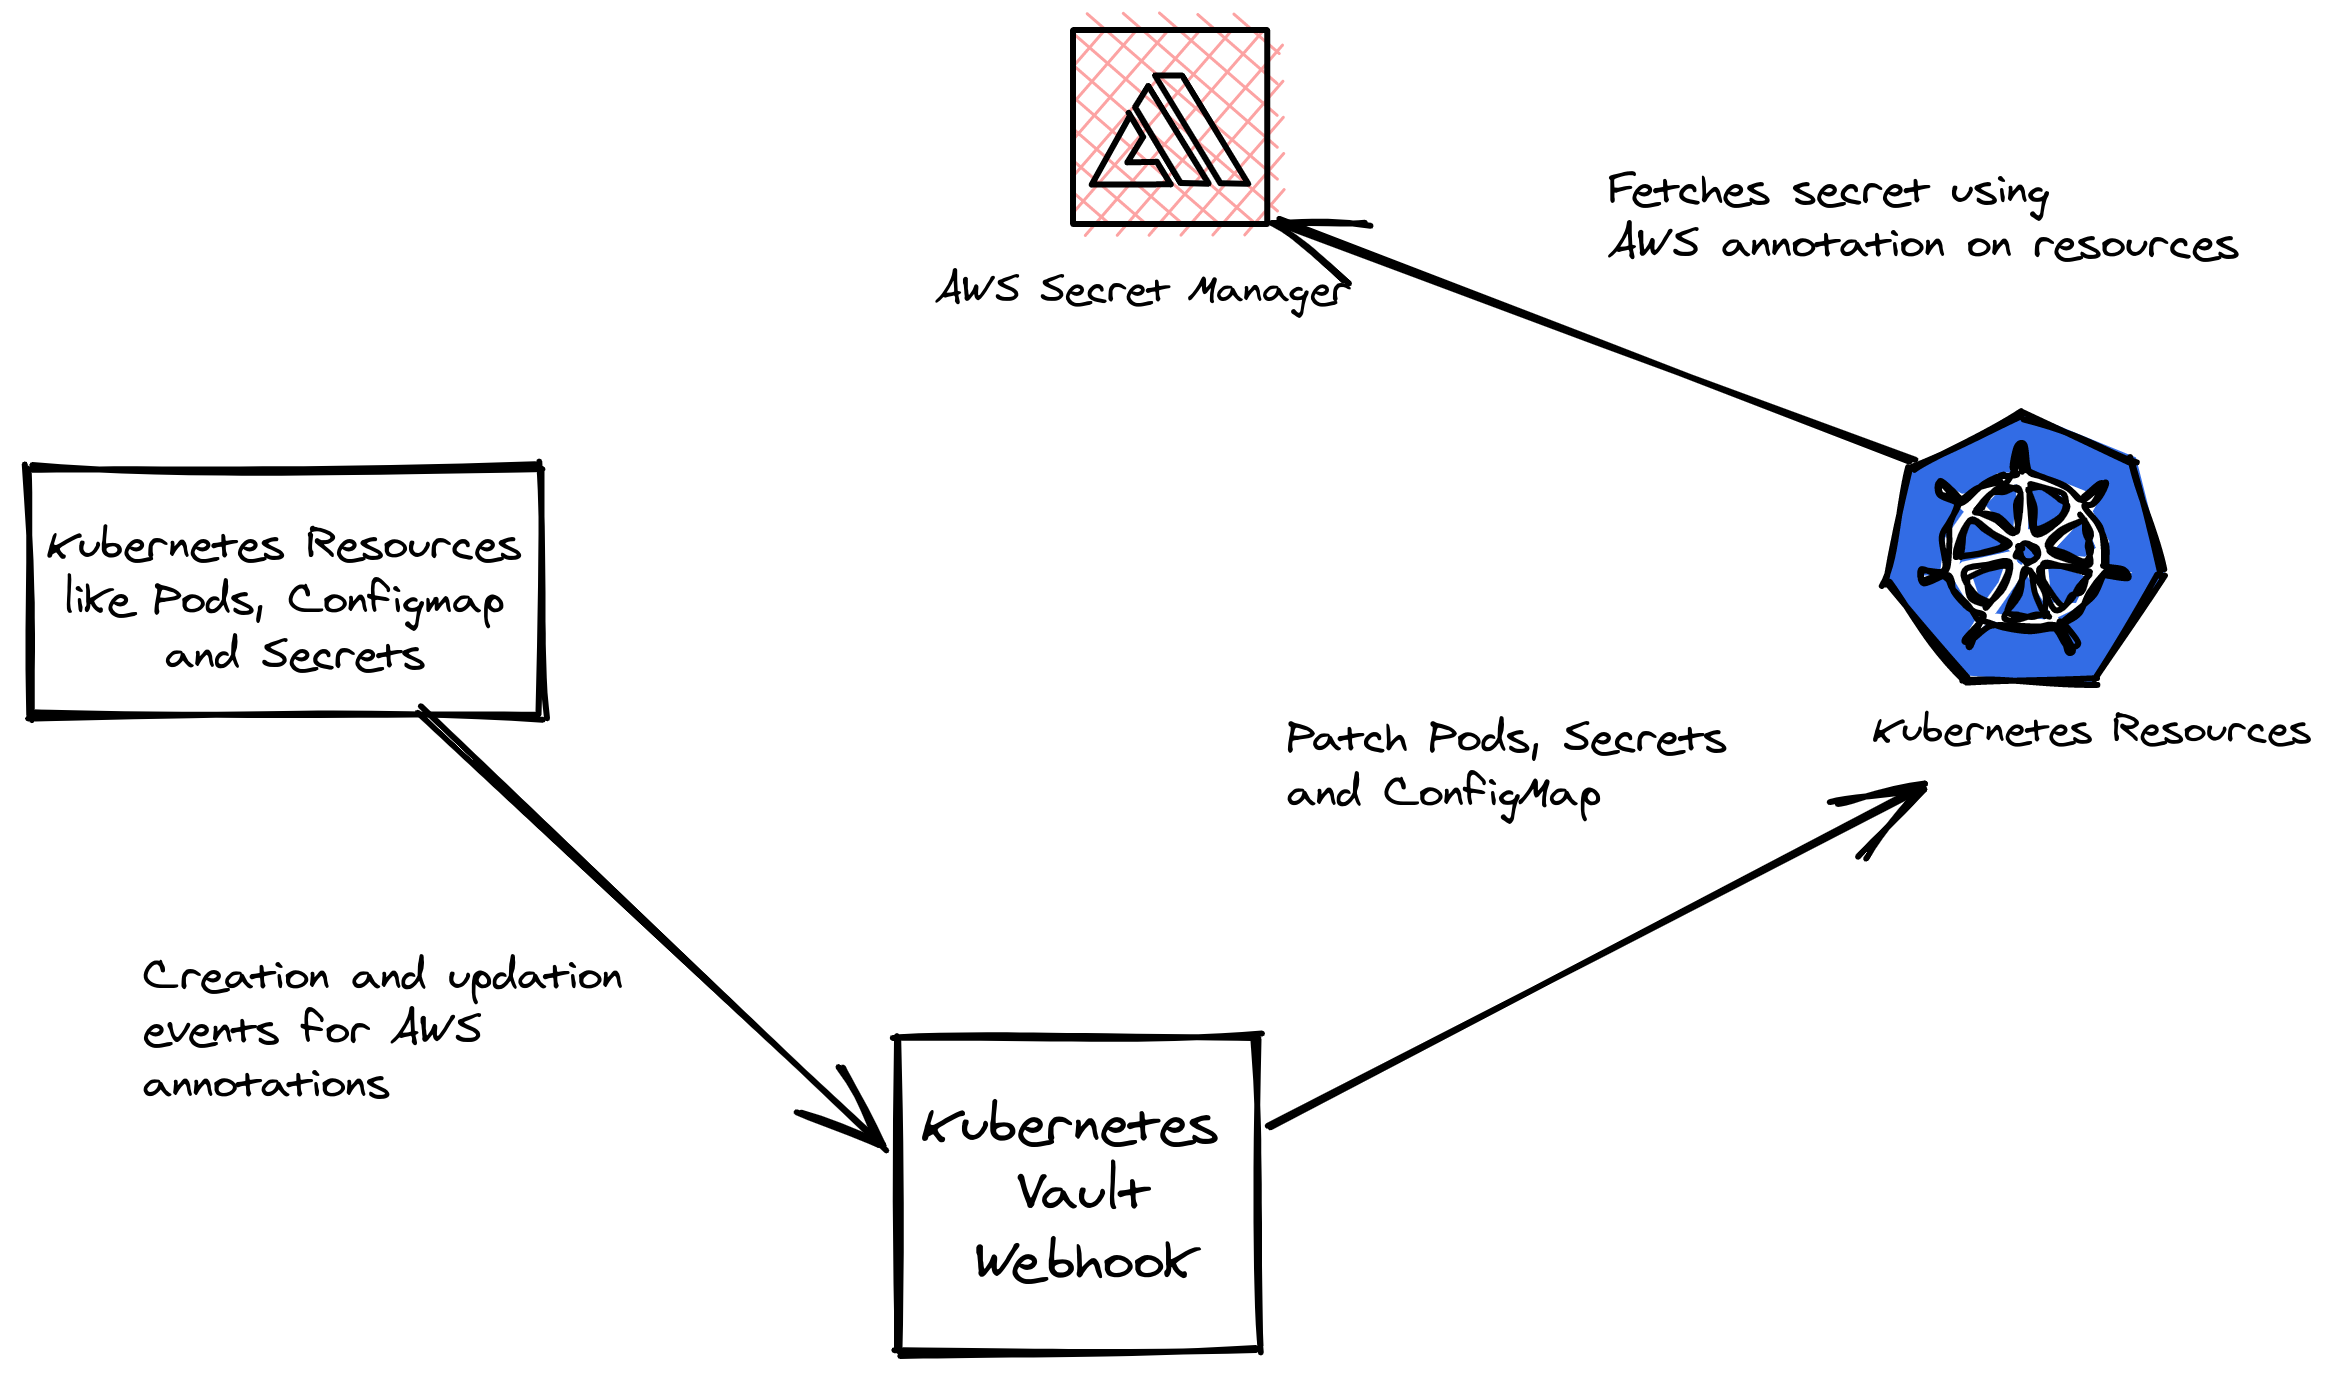
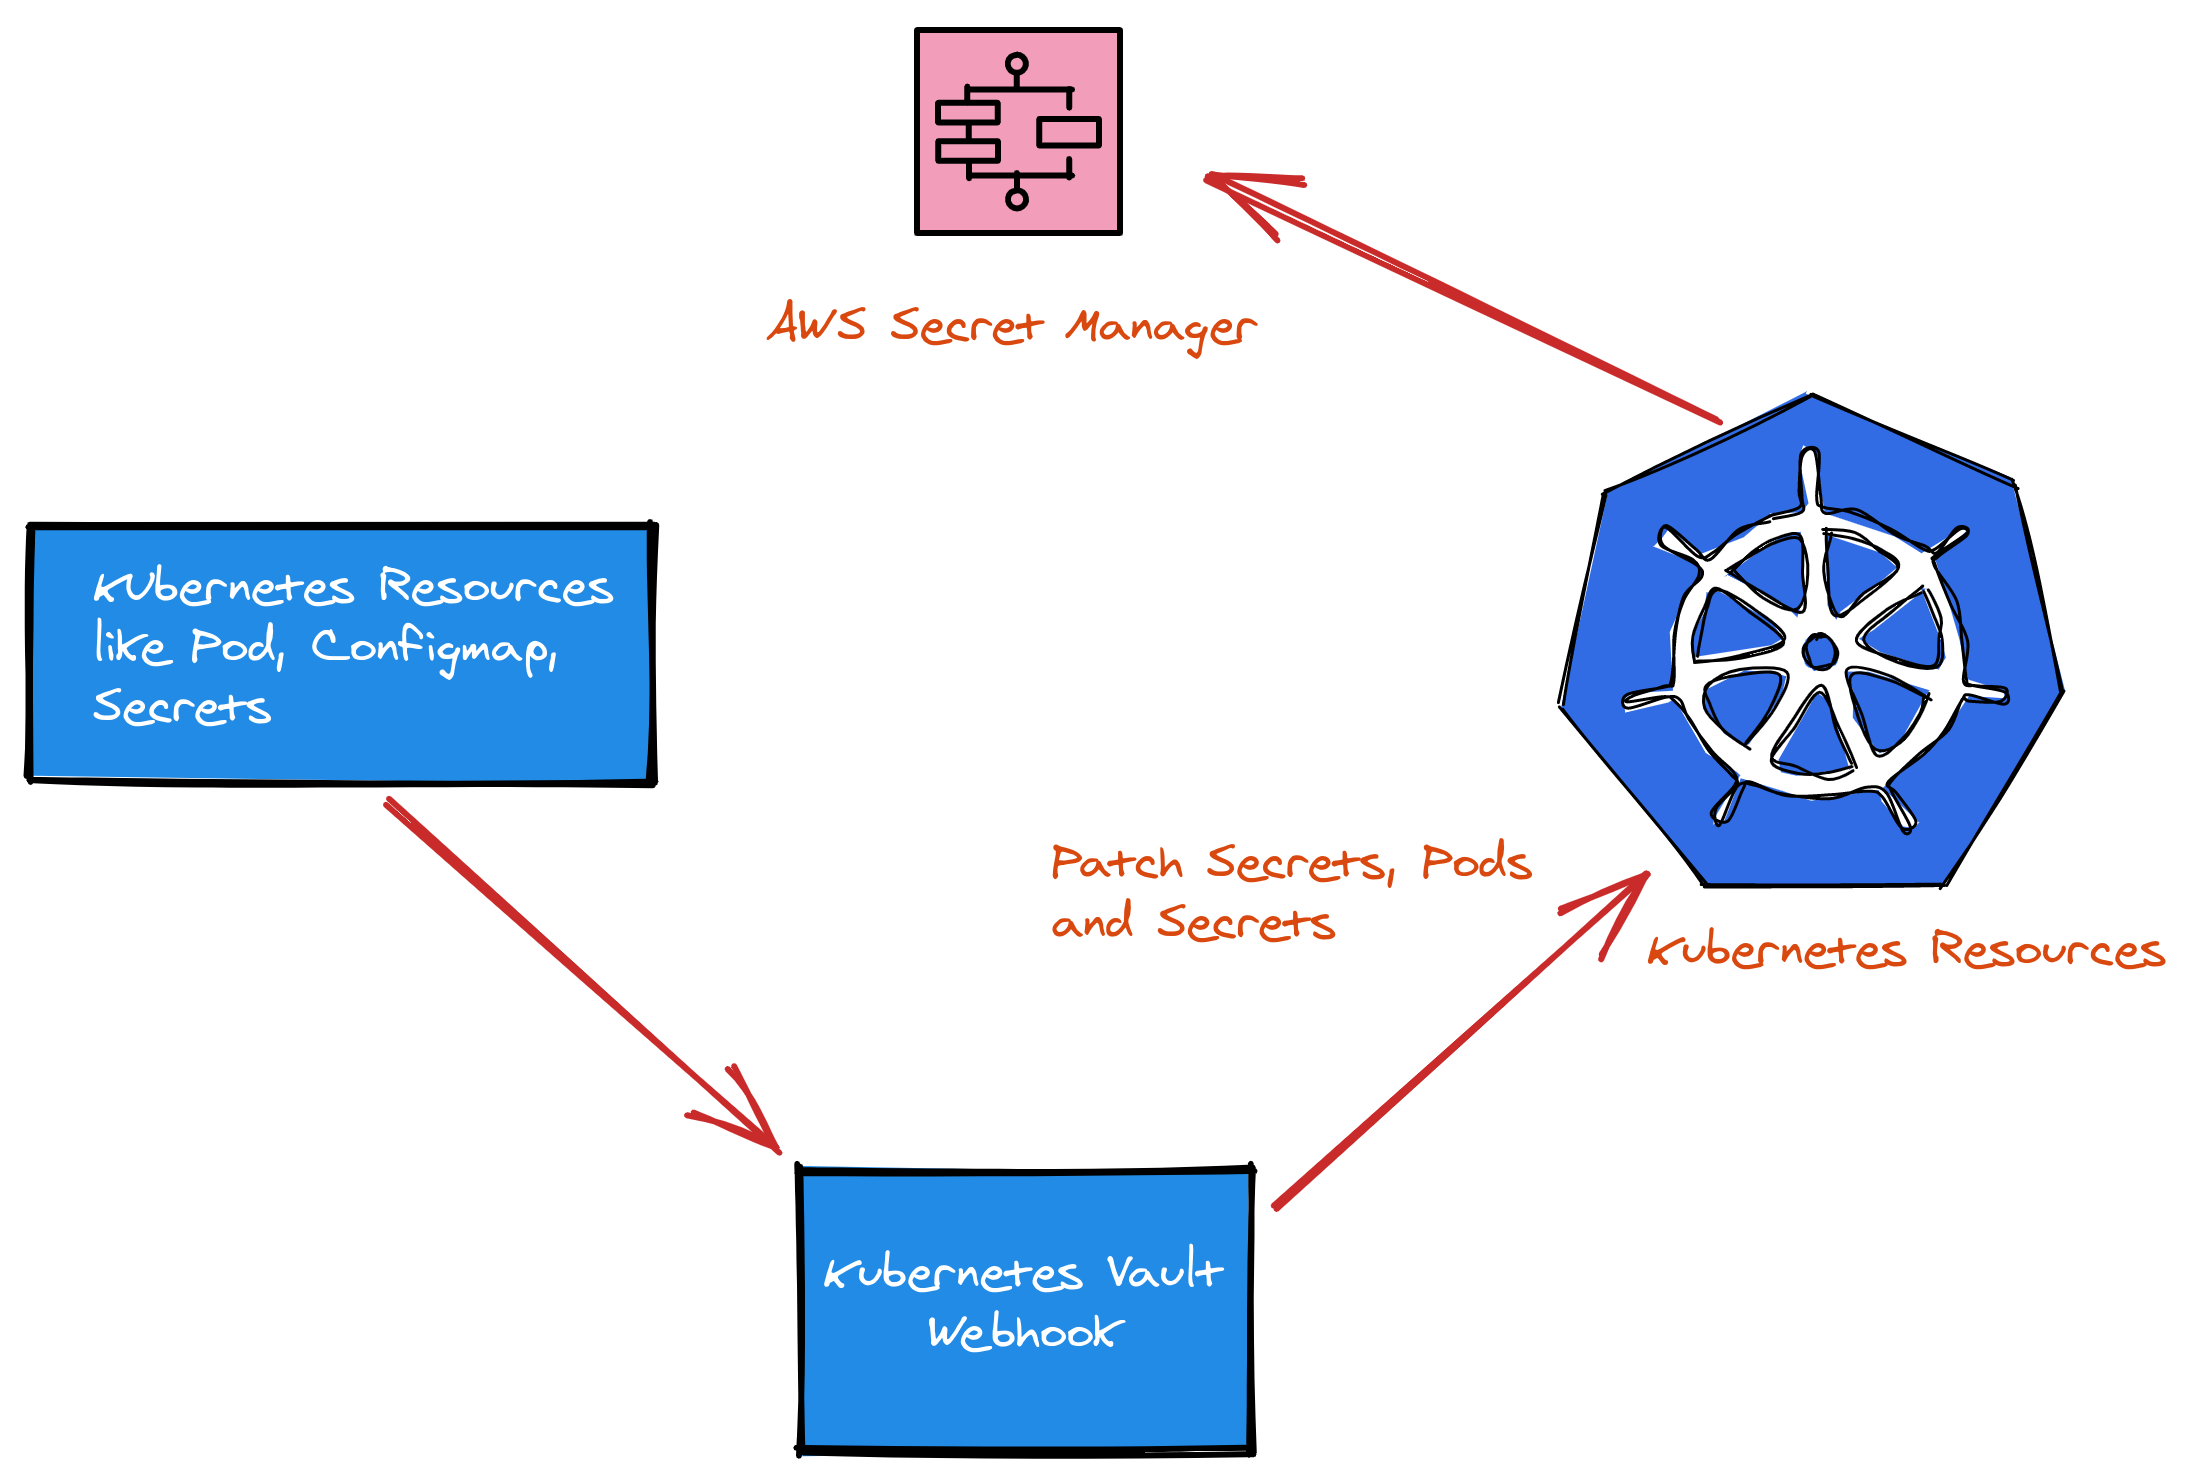
[Feature][Add] Added support for azure key vault (#12)
* Added support for azure key vault

* Updated architecture diagram

* Updated docs for Azure Support

diff --git a/docs/src/.vuepress/config.js b/docs/src/.vuepress/config.js
@@ -70,6 +70,7 @@ module.exports = {
           children: [
             'hashicorp-vault',
             'aws-secret-manager',
+            'azure-integration',
           ]
         },
         {
@@ -78,6 +79,7 @@ module.exports = {
           children: [
             'hashicorp-vault-example',
             'aws-secret-manager-example',
+            'azure-examples',
           ]
         },
         {

diff --git a/main.go b/main.go
@@ -248,6 +248,11 @@ func (mw *mutatingWebhook) mutateContainers(containers []corev1.Container, podSp
 		container.Command = []string{"/k8s-secret/k8s-secret-injector"}
 		container.Args = args
 
+		if secretManagerConfig.azure.config.enabled {
+			container = secretManagerConfig.azure.mutateContainer(container)
+			mutationInProgress = true
+		}
+
 		if secretManagerConfig.aws.config.enabled {
 			container = secretManagerConfig.aws.mutateContainer(container)
 			mutationInProgress = true
@@ -341,6 +346,9 @@ func (mw *mutatingWebhook) parseSecretManagerConfig(obj metav1.Object) secretMan
 	var smCfg secretManagerConfig
 	annotations := obj.GetAnnotations()
 
+	smCfg.azure.config.enabled, _ = strconv.ParseBool(annotations[AnnotationAzureKeyVaultEnabled])
+	smCfg.azure.config.azureKeyVaultName = annotations[AnnotationAzureKeyVaultName]
+
 	smCfg.aws.config.enabled, _ = strconv.ParseBool(annotations[AnnotationAWSSecretManagerEnabled])
 	smCfg.aws.config.region = annotations[AnnotationAWSSecretManagerRegion]
 	smCfg.aws.config.roleARN = annotations[AnnotationAWSSecretManagerRoleARN]
@@ -380,6 +388,16 @@ func (mw *mutatingWebhook) SecretsMutator(ctx context.Context, obj metav1.Object
 
 	switch v := obj.(type) {
 	case *corev1.Pod:
+		if smCfg.azure.config.enabled {
+			mw.logger.Infof("Using Azure Key Vault")
+
+			if smCfg.azure.config.azureKeyVaultName == "" {
+				return true, fmt.Errorf("Error getting azure key vault - make sure you set the annotation %s on the Pod", AnnotationAzureKeyVaultName)
+			}
+
+			return false, mw.mutatePod(v, smCfg, whcontext.GetAdmissionRequest(ctx).Namespace, whcontext.IsAdmissionRequestDryRun(ctx))
+		}
+
 		if smCfg.aws.config.enabled {
 			mw.logger.Infof("Using AWS Secret Manager")
 
@@ -461,7 +479,7 @@ func newK8SClient() (kubernetes.Interface, error) {
 }
 
 func init() {
-	viper.SetDefault("k8s_secret_injector_image", "quay.io/opstree/k8s-secret-injector:2.0")
+	viper.SetDefault("k8s_secret_injector_image", "quay.io/opstree/k8s-secret-injector:3.0")
 	viper.SetDefault("k8s_secret_injector_image_pull_policy", string(corev1.PullIfNotPresent))
 	viper.SetDefault("k8s_secret_injector_image_pull_secret_name", "")
 	viper.SetDefault("tls_cert_file", "")

diff --git a/azure.go b/azure.go
@@ -1,0 +1,28 @@
+package main
+
+import (
+	"fmt"
+
+	corev1 "k8s.io/api/core/v1"
+)
+
+type azure struct {
+	config struct {
+		enabled           bool
+		azureKeyVaultName string
+	}
+}
+
+func (azure *azure) mutateContainer(container corev1.Container) corev1.Container {
+	container = azure.setArgs(container)
+	return container
+}
+
+func (azure *azure) setArgs(c corev1.Container) corev1.Container {
+	args := []string{"azure"}
+	args = append(args, fmt.Sprintf("--azure-vault-name=%s", azure.config.azureKeyVaultName))
+
+	args = append(args, "--")
+	c.Args = append(args, c.Args...)
+	return c
+}

diff --git a/annotations.go b/annotations.go
@@ -1,6 +1,12 @@
 package main
 
 const (
+	// AnnotationAzureKeyVaultEnabled if enabled it will use Azure Key Vault
+	AnnotationAzureKeyVaultEnabled = "azure.opstree.secret.manager/enabled"
+
+	// AnnotationAzureKeyVaultName azure key vault name
+	AnnotationAzureKeyVaultName = "azure.opstree.secret.manager/vault-name"
+
 	// AnnotationAWSSecretManagerEnabled if enabled it will use AWS secret manager
 	AnnotationAWSSecretManagerEnabled = "aws.opstree.secret.manager/enabled"
 

diff --git a/version/version.go b/version/version.go
@@ -1,7 +1,7 @@
 package version
 
-// version is a private field and should be set when compiling with --ldflags="-X github.com/innovia/secrets-consumer-env/pkg/version.version=X.Y.Z"
-var version = "1.0"
+// version is a private field
+var version = "3.0"
 
 // GetVersion returns the current version
 func GetVersion() string {

diff --git a/types.go b/types.go
@@ -9,6 +9,7 @@ import (
 type secretManagerConfig struct {
 	vault
 	aws
+	azure
 	// explicitSecrets bool // only get secrets that match the prefix `secret:`
 }
 

diff --git a/docs/src/guide/azure-examples.md b/docs/src/guide/azure-examples.md
@@ -1,0 +1,83 @@
+# Azure Key Vault
+
+Let's try to create a deployment to inject secrets directly from Azure Key Vault. For example, purpose we are taking mysql as deployment and then we will try to set mysql root password using k8s-vault-webhook.
+
+We can use our [example](https://github.com/OT-CONTAINER-KIT/k8s-vault-webhook/tree/master/example) folder.
+
+The environment variables will get substitute automatically, we just have to provide some custom annotations.
+
+```yaml
+  template:
+    metadata:
+      labels:
+        app: k8s-azure-mysql
+        tier: mysql
+# Use Azure App Pod Pinding if cluster is configured in Azure
+        # aadpodidbinding: POD_IDENTITY_NAME
+      annotations:
+        azure.opstree.secret.manager/enabled: "true"
+        azure.opstree.secret.manager/vault-name: "vault-k8s-secret"
+    spec:
+      containers:
+      - image: opstree/mysql:latest
+        name: mysql
+# If running outside Azure
+        env:
+        - name: AZURE_CLIENT_SECRET
+          valueFrom:
+            secretKeyRef:
+              name: azure-secret
+              key: AZURE_CLIENT_SECRET
+        - name: AZURE_CLIENT_ID
+          valueFrom:
+            secretKeyRef:
+              name: azure-secret
+              key: AZURE_CLIENT_ID
+        - name: AZURE_TENANT_ID
+          valueFrom:
+            secretKeyRef:
+              name: azure-secret
+              key: AZURE_TENANT_ID
+```
+
+Let's try to apply the deployment manifest.
+
+```shell
+$ kubectl apply -f example/azure-mysql-example.yaml
+...
+deployment.apps/k8s-azure-mysql configured
+```
+
+Verify the mysql pods are running or not by using `kubectl` command line.
+
+```shell
+$ kubectl get pods
+...
+NAME                                       READY   STATUS             RESTARTS   AGE
+k8s-azure-mysql-658b99f8dc-k9r58           1/1     Running            0          128m
+```
+
+Now let's try to get inside the `mysql` pod and see if the Azure Key Vault's password is working fine or not.
+
+```shell
+$ kubectl exec -it k8s-azure-mysql-658b99f8dc-k9r58 \
+    -- mysql -u root -pazurepassword -e "show databases;"
+...
+Warning: Using a password on the command line interface can be insecure.
++--------------------+
+| Database           |
++--------------------+
+| information_schema |
+| mysql              |
+| performance_schema |
++--------------------+
+```
+
+Also, try to check the value in environment variable of MySQL pod.
+
+```shell
+$ kubectl exec -it k8s-azure-mysql-658b99f8dc-k9r58 \
+    -- env | grep ROOT
+...
+No output
+```

diff --git a/README.md b/README.md
@@ -32,10 +32,10 @@ The secret managers which are currently supported:-
 
 - **[Hashicorp Vault](https://www.vaultproject.io/)**
 - **[AWS Secret Manager](https://aws.amazon.com/secrets-manager/)**
+- **[Azure Key Vault](https://azure.microsoft.com/en-in/services/key-vault/)**
 
 There are some secret managers which are planned to be implemented in future.
 
-- **[Azure Key Vault](https://azure.microsoft.com/en-in/services/key-vault/)**
 - **[GCP Secret Manager](https://cloud.google.com/secret-manager)**
 
 ### Supported Features
@@ -45,21 +45,16 @@ There are some secret managers which are planned to be implemented in future.
 - Inject secret directly to pods/containers running inside Kubernetes
 - Inject secret directly to pods/containers from AWS Secret Manager
 - Authentication with AWS Secret Manager with access key and iam role
+- Fetch secrets from Azure Key Vault and inject them in pods/containers
+- Pod AD identity and Service principal based authentication in Azure
+- Authentication with AWS Secret Manager with access key and iam role
 - Support regex to inject all secrets from a certain path of Vault
 - Inject secrets directly to the process of container, i.e. after the injection you cannot read secrets from the environment variable
 
 ### Architecture
 
-#### Hashicorp Vault
-
 <div align="center">
-    <img src="./static/k8s-vault-webhook-arc-vault.png">
-</div>
-
-#### AWS Secret Manager
-
-<div align="center">
-    <img src="./static/k8s-vault-webhook-arc-aws.png">
+    <img src="./static/k8s-vault-webhook-arc.png">
 </div>
 
 ### Installation

diff --git a/docs/src/guide/annotations.md b/docs/src/guide/annotations.md
@@ -7,10 +7,10 @@ The annotations which are currently supported:-
 
 - **[Hashicorp Vault](https://www.vaultproject.io/)**
 - **[AWS Secret Manager](https://aws.amazon.com/secrets-manager/)**
+- **[Azure Key Vault](https://azure.microsoft.com/en-in/services/key-vault/)**
 
 There are some other annotations which are planned to be implemented in future.
 
-- **[Azure Key Vault](https://azure.microsoft.com/en-in/services/key-vault/)**
 - **[GCP Secret Manager](https://cloud.google.com/secret-manager)**
 
 ## Vault Annotations
@@ -39,3 +39,10 @@ The available annotations for k8s vault webhook are:-
 |`aws.secret.manager/role-arn`| AWS IAM Role to access the secret | no | |
 |`aws.secret.manager/secret-name`| Name of the AWS secret | no | |
 |`aws.secret.manager/previous-version`| If the secret is rotated, set to "true" | no | |
+
+## Azure Annotations
+
+|**Name**|**Description**|**Required**|**Default**|
+|--------|---------------|------------|-----------|
+|`azure.secret.manager/enabled`| Enable the Azure Key Vault | - | false |
+|`azure.secret.manager/vault-name`| Name of the Azure Key Vault in which secrets are held | no | test-secret |

diff --git a/docs/src/guide/azure-integration.md b/docs/src/guide/azure-integration.md
@@ -1,0 +1,23 @@
+# Azure Key Vault
+
+For integrating AWS Secret Manager with the K8s Vault Webhook, first we need to setup Azure Key Vault inside Azure account.
+
+Here we will talk about the integration of Azure Key Vault inside Kubernetes.
+
+Login into the [Azure Portal](http://portal.azure.com/#home) and select [Azure Key Vault](https://azure.microsoft.com/en-in/services/key-vault/) service.
+
+![](./images/azure-key-vault-azure.png)
+
+Create a secret in Settings > Secrets and click on `Generate/Import` ans specify these details for testing.
+
+|**Key**|**Value**|
+|-------|---------|
+| mysql-root-password | azurepassword |
+
+![](./images/azure-key-vault-secrets.png)
+
+Once the details has been provided, create the secret.
+
+![](./images/azure-key-vault-name.png)
+
+**Since Azure Key Vault doesn't supports underscore `_`, we will use hyphen `-`. The k8s-vault-webhook will automatically replace the hyphen with underscore.**

diff --git a/docs/src/guide/README.md b/docs/src/guide/README.md
@@ -31,14 +31,6 @@ There are some secret managers which are planned to be implemented in future.
 
 ## Architecture
 
-### Hashicorp Vault
-
 <div align="center" style="padding-top: 25px;">
-    <img src="./images/k8s-vault-webhook-arc-vault.png">
-</div>
-
-### AWS Secret Manager
-
-<div align="center" style="padding-top: 25px;">
-    <img src="./images/k8s-vault-webhook-arc-aws.png">
+    <img src="./images/k8s-vault-webhook-arc.png">
 </div>

diff --git a/CHANGELOG.md b/CHANGELOG.md
@@ -1,3 +1,12 @@
+### v3.0
+##### May 9, 2021
+
+#### :tada: [Features Added]
+
+- Added Azure Key Vault support
+- Fetch secrets from Azure Key Vault and inject them in pods/containers
+- Pod AD identity and Service principal based authentication in Azure
+
 ### v2.0
 ##### May 8, 2021
 
